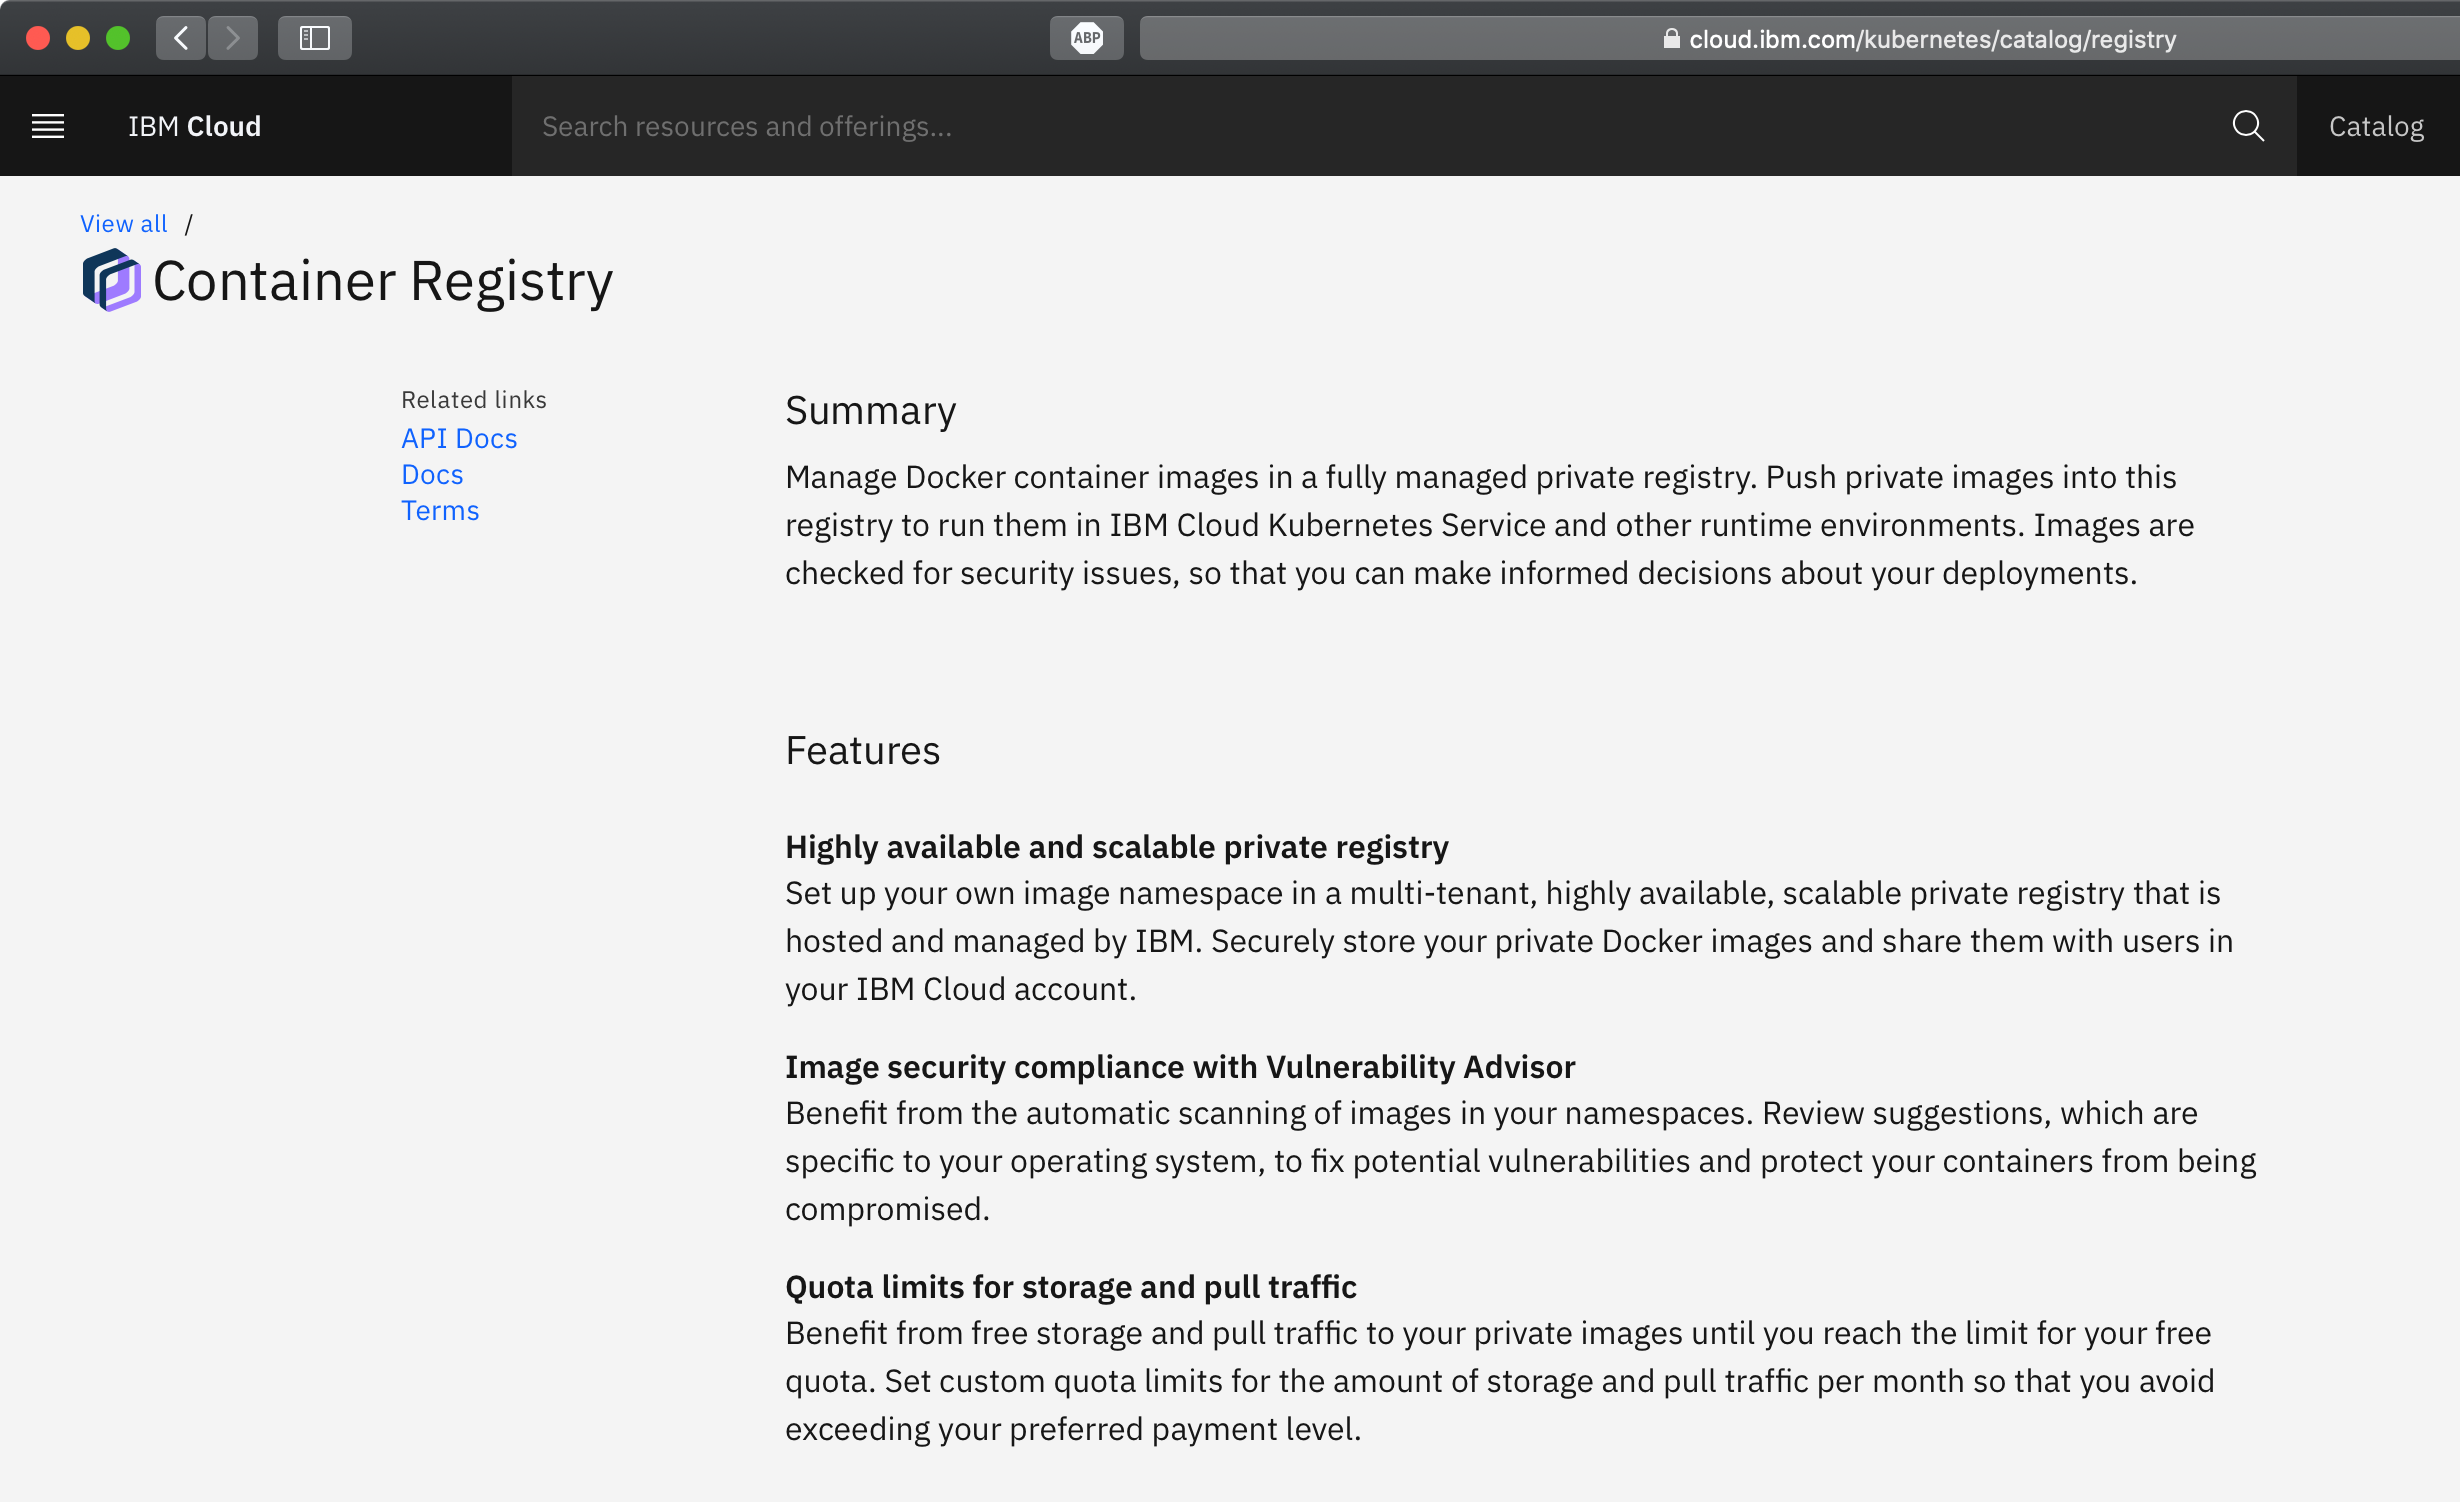
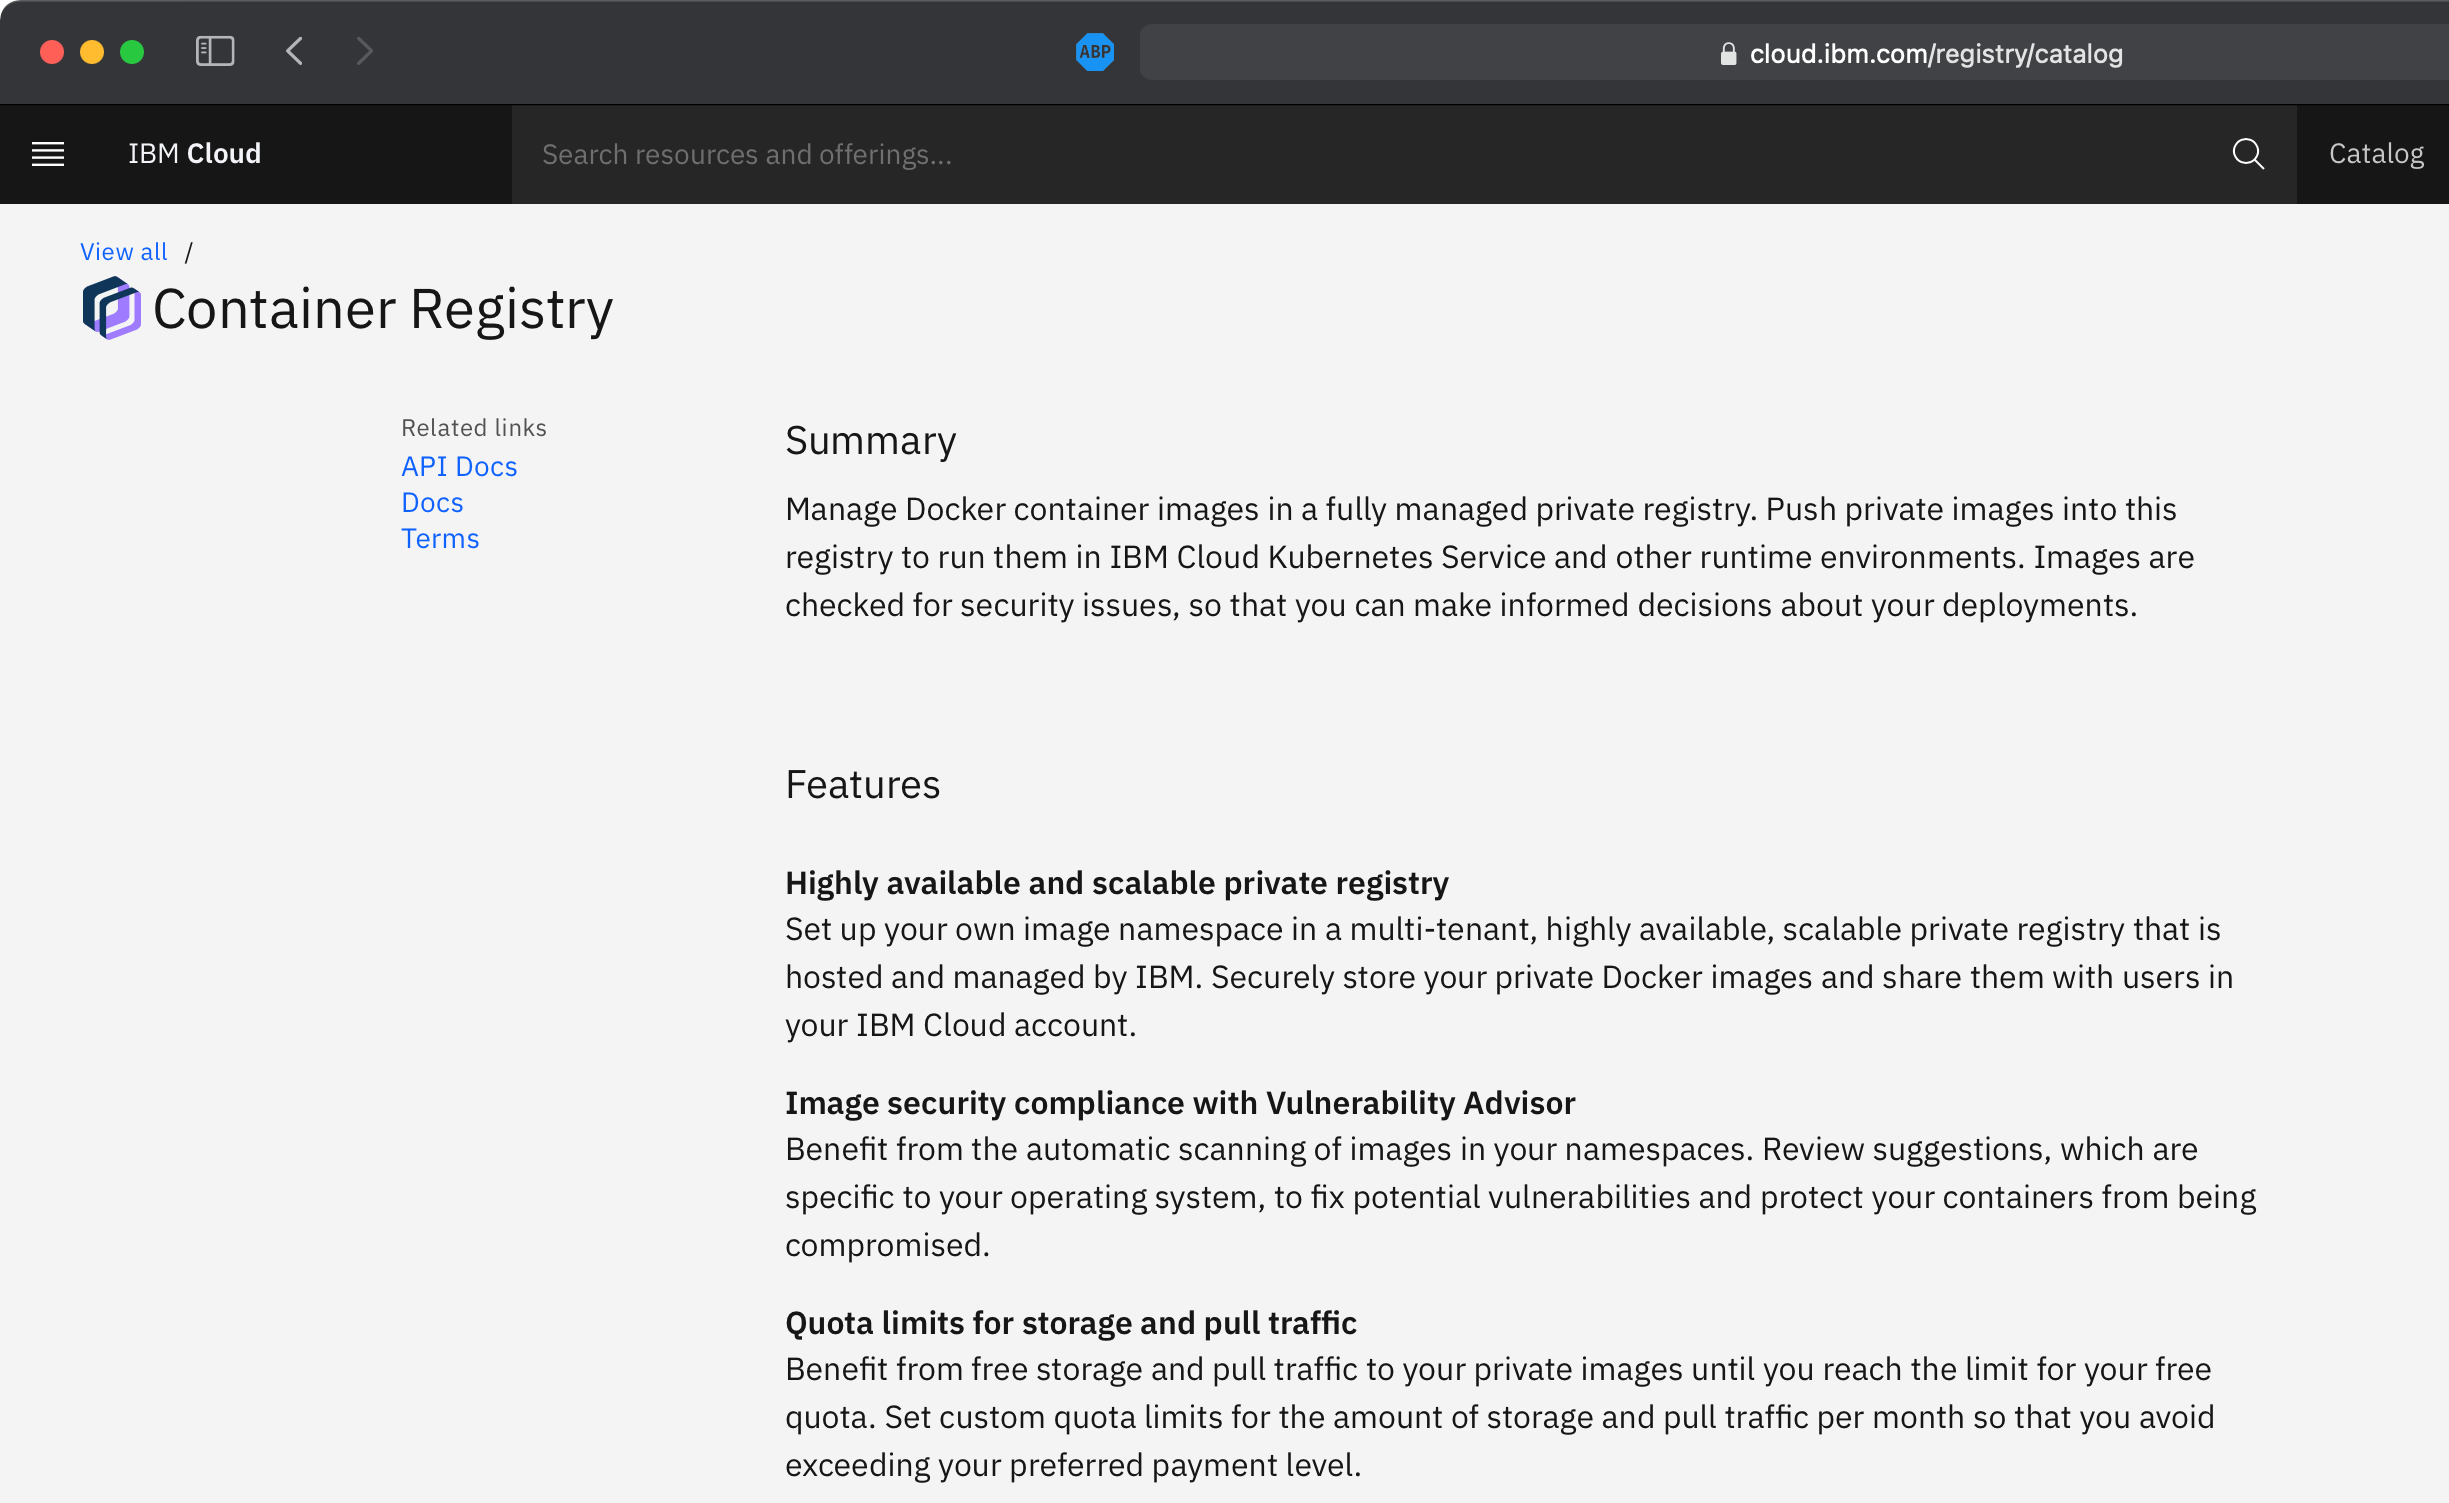
Update for new ICR UI

Changed region(s): [[0.3103, 0.49, 0.931, 0.98], [0.0, 0.0, 1.0, 0.3675], [0.3103, 0.245, 0.9, 0.4288]]

diff --git a/labs/1a_ContainerRegistry/instructions.md b/labs/1a_ContainerRegistry/instructions.md
@@ -38,22 +38,22 @@ Congratulations! You can now explore the [IBM Cloud catalog](https://cloud.ibm.c
 ![Container Registry tile](images/registry-tile.png){ width=626 height=527 }
 
 4. You can now read about the Container Registry service and visit links for API documentation and docs about how to use the service.
-![Registry catalog](images/registry-catalog.png){ width=615 height=376 }
+![Registry catalog](images/registry-catalog.png){ width=615 height=377 }
 
-5. At the top right, click **Create**.
+5. At the top right, click **Get started**.
 
 6. Ensure that the location is set to **Dallas**.
-![Container Registry location](images/registry-location.png){ width=510 height=280 }
+![Container Registry location](images/registry-location.png){ width=435 height=280 }
 
 7. Click the **Namespaces** tab.
-![Container Registry namespaces menu](images/registry-namespaces-menu.png){ width=624 height=340 }
+![Container Registry namespaces menu](images/registry-namespaces-menu.png){ width=295 height=340 }
 
 8. On the right side of the Namespaces panel, click **Create**. A **Create namespace** panel opens.
 
 9. In the **Resource group** field, select the name of the resource group you would like this namespace to reside in. For this lab, you can simply leave the selection as **default**.
 
 10. In the **Name** field, type a unique name for the namespace. The name must be unique across all users of the Container Registry service in this region.
-![Container Registry namespace create](images/registry-namespace-create.png){ width=223 height=514 }
+![Container Registry namespace create](images/registry-namespace-create.png){ width=445 height=514 }
 
 11. Click **Create** at the bottom of the panel to create the namespace.
 
